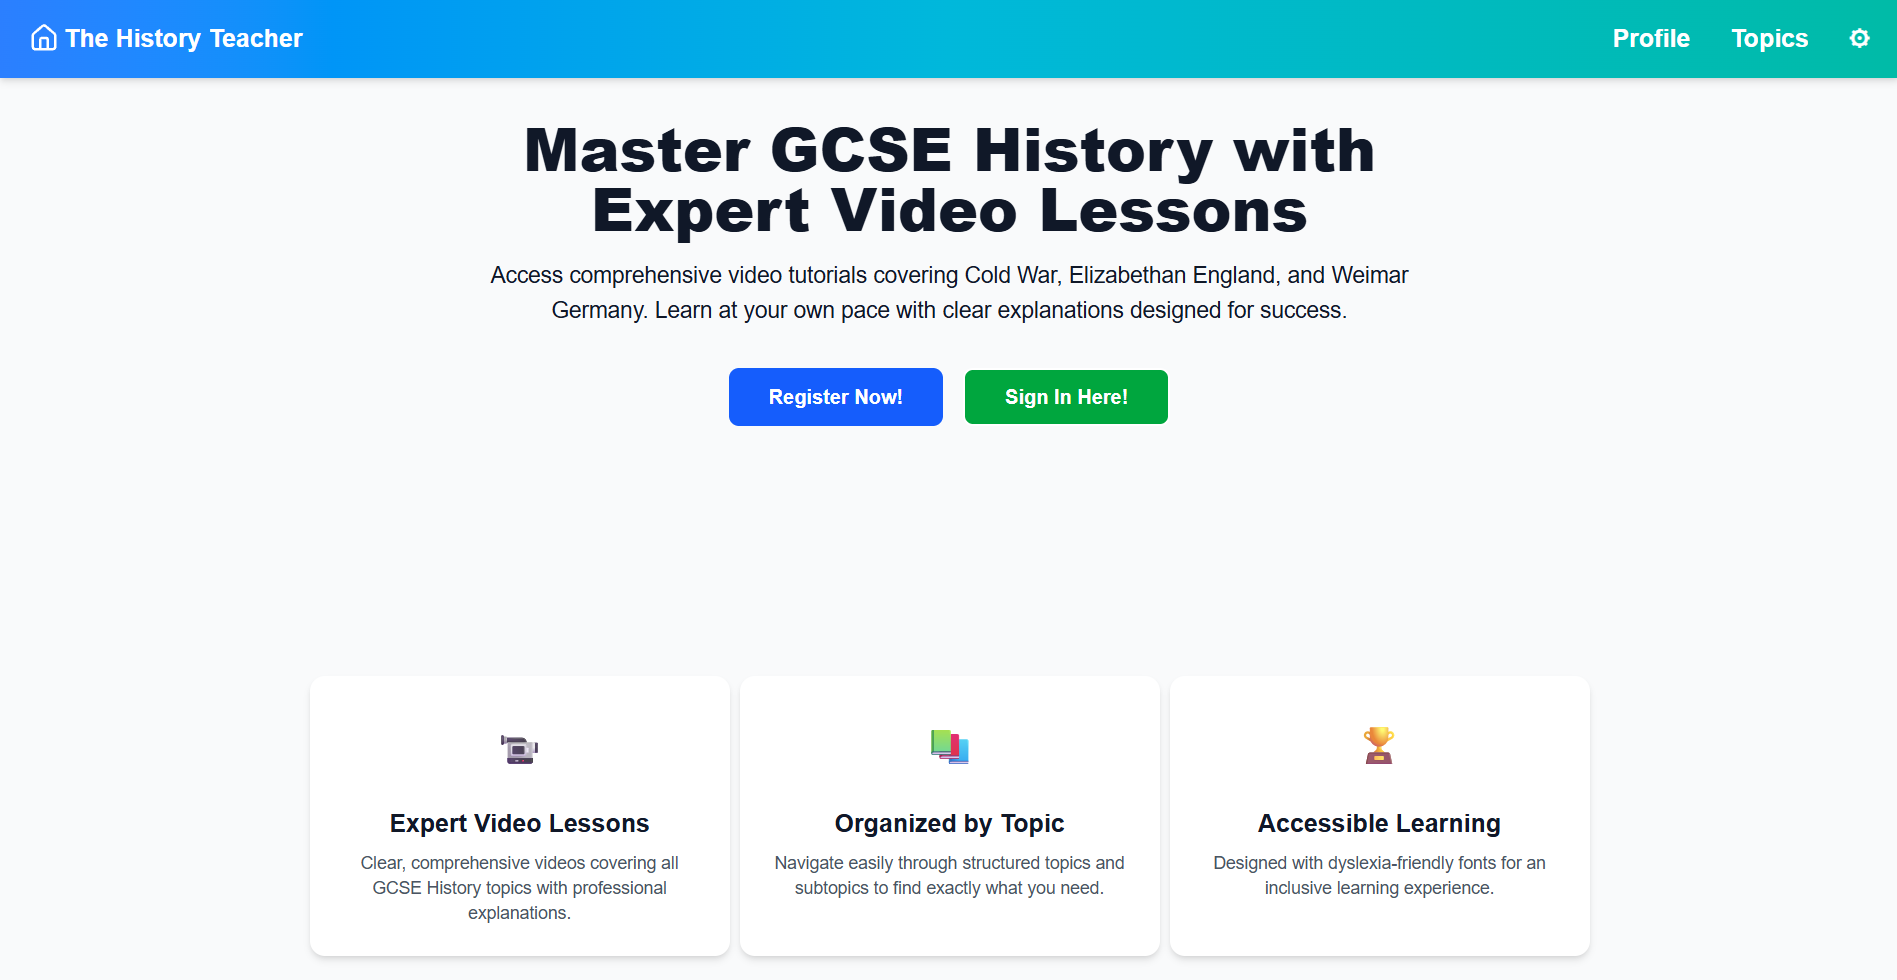
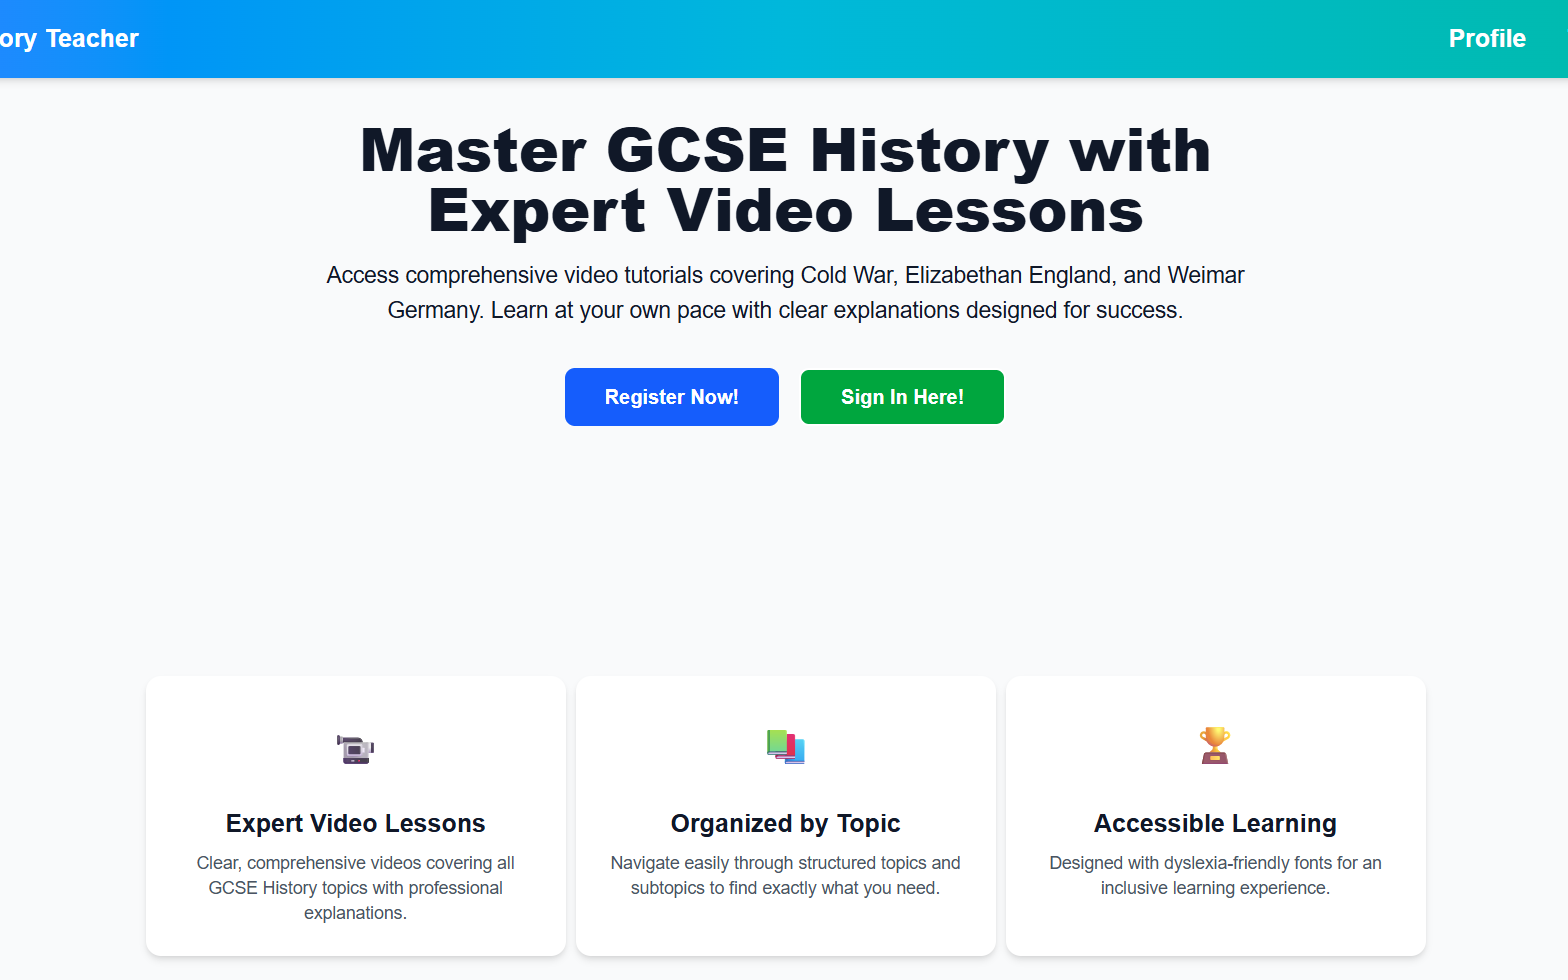
Changed the picture sizing and updated paths

diff --git a/components/Projects.tsx b/components/Projects.tsx
@@ -94,7 +94,7 @@ function BuildingTape() {
 function BuildingCard({ project }: { project: Project }) {
   return (
     <article className="group">
-      <div className="relative aspect-16/10 overflow-hidden rounded-md bg-surface">
+      <div className="relative aspect-16/10 overflow-hidden rounded-2xl bg-surface">
         <ProjectImage project={project} sizes="(min-width: 768px) 50vw, 100vw" dim />
         <BuildingTape />
       </div>
@@ -131,7 +131,7 @@ export function Projects() {
 
         {/* Featured project: image + text split, stacks on mobile */}
         <Reveal delay={0.05} className="mt-12">
-          <article className="group grid grid-cols-1 overflow-hidden rounded-md bg-surface md:grid-cols-5">
+          <article className="group grid grid-cols-1 overflow-hidden rounded-2xl bg-surface md:grid-cols-5">
             <div className="relative aspect-16/10 overflow-hidden md:col-span-3 md:aspect-auto md:min-h-105">
               <ProjectImage project={featured} sizes="(min-width: 768px) 60vw, 100vw" />
             </div>
@@ -153,7 +153,7 @@ export function Projects() {
           {rest.map((project, i) => (
             <Reveal key={project.title} delay={0.05 * (i + 1)}>
               <article className="group">
-                <div className="relative aspect-16/10 overflow-hidden rounded-md bg-surface">
+                <div className="relative aspect-16/10 overflow-hidden rounded-2xl bg-surface">
                   <ProjectImage project={project} sizes="(min-width: 768px) 50vw, 100vw" />
                 </div>
                 <div className="mt-5 flex flex-col gap-3">

diff --git a/lib/content.ts b/lib/content.ts
@@ -45,14 +45,14 @@ export const projects: Project[] = [
     description:
       "Conway's Game of Life in Go, parallelised with goroutines for a 1.94x speedup, then split into a distributed system with the compute server on AWS EC2.",
     stack: ["Go", "RPC", "AWS EC2"],
-    image: "/projects/GOL.webp",
+    image: "/projects/GOL.png",
   },
   {
     title: "Scotland Yard AI",
     description:
       "The Scotland Yard board game in Java, with an AI for Mr. X that picks its moves using minimax search and alpha-beta pruning.",
     stack: ["Java"],
-    image: "/projects/ScotlandYard.webp",
+    image: "/projects/ScotlandYard.png",
   },
   // In-progress projects: `status: "building"` puts them in the "currently building" row. No image needed.
   {
